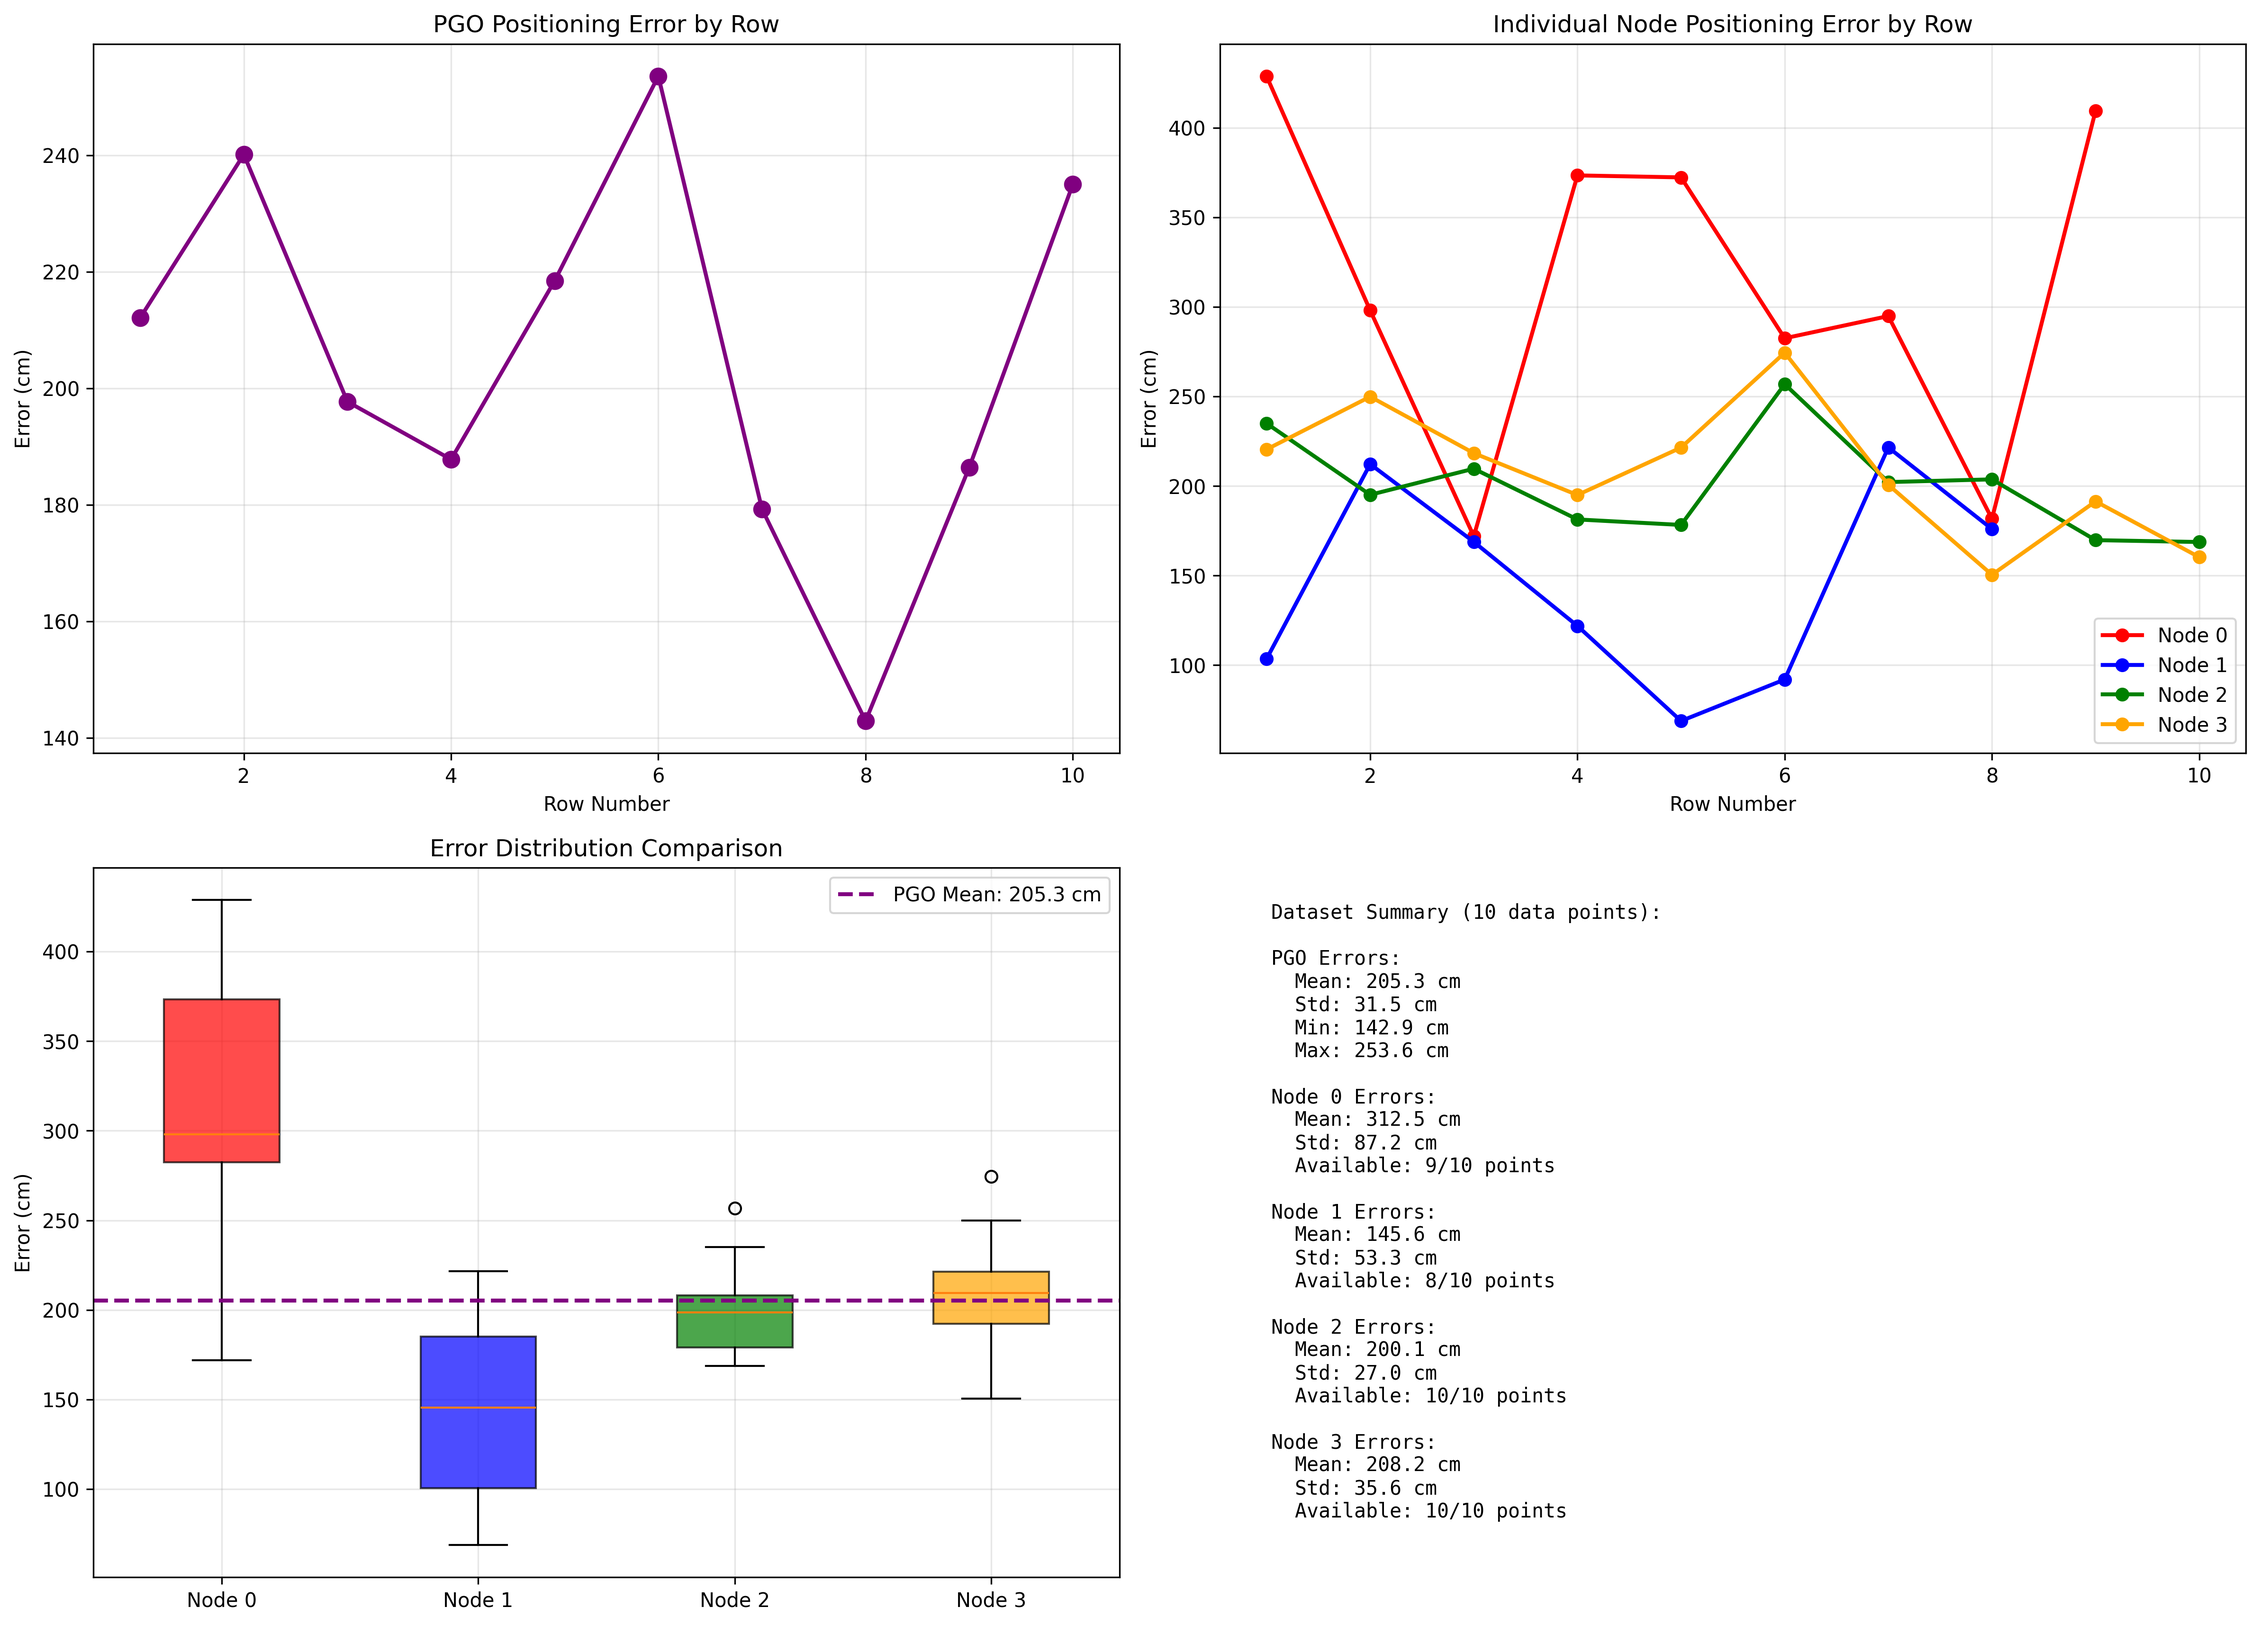
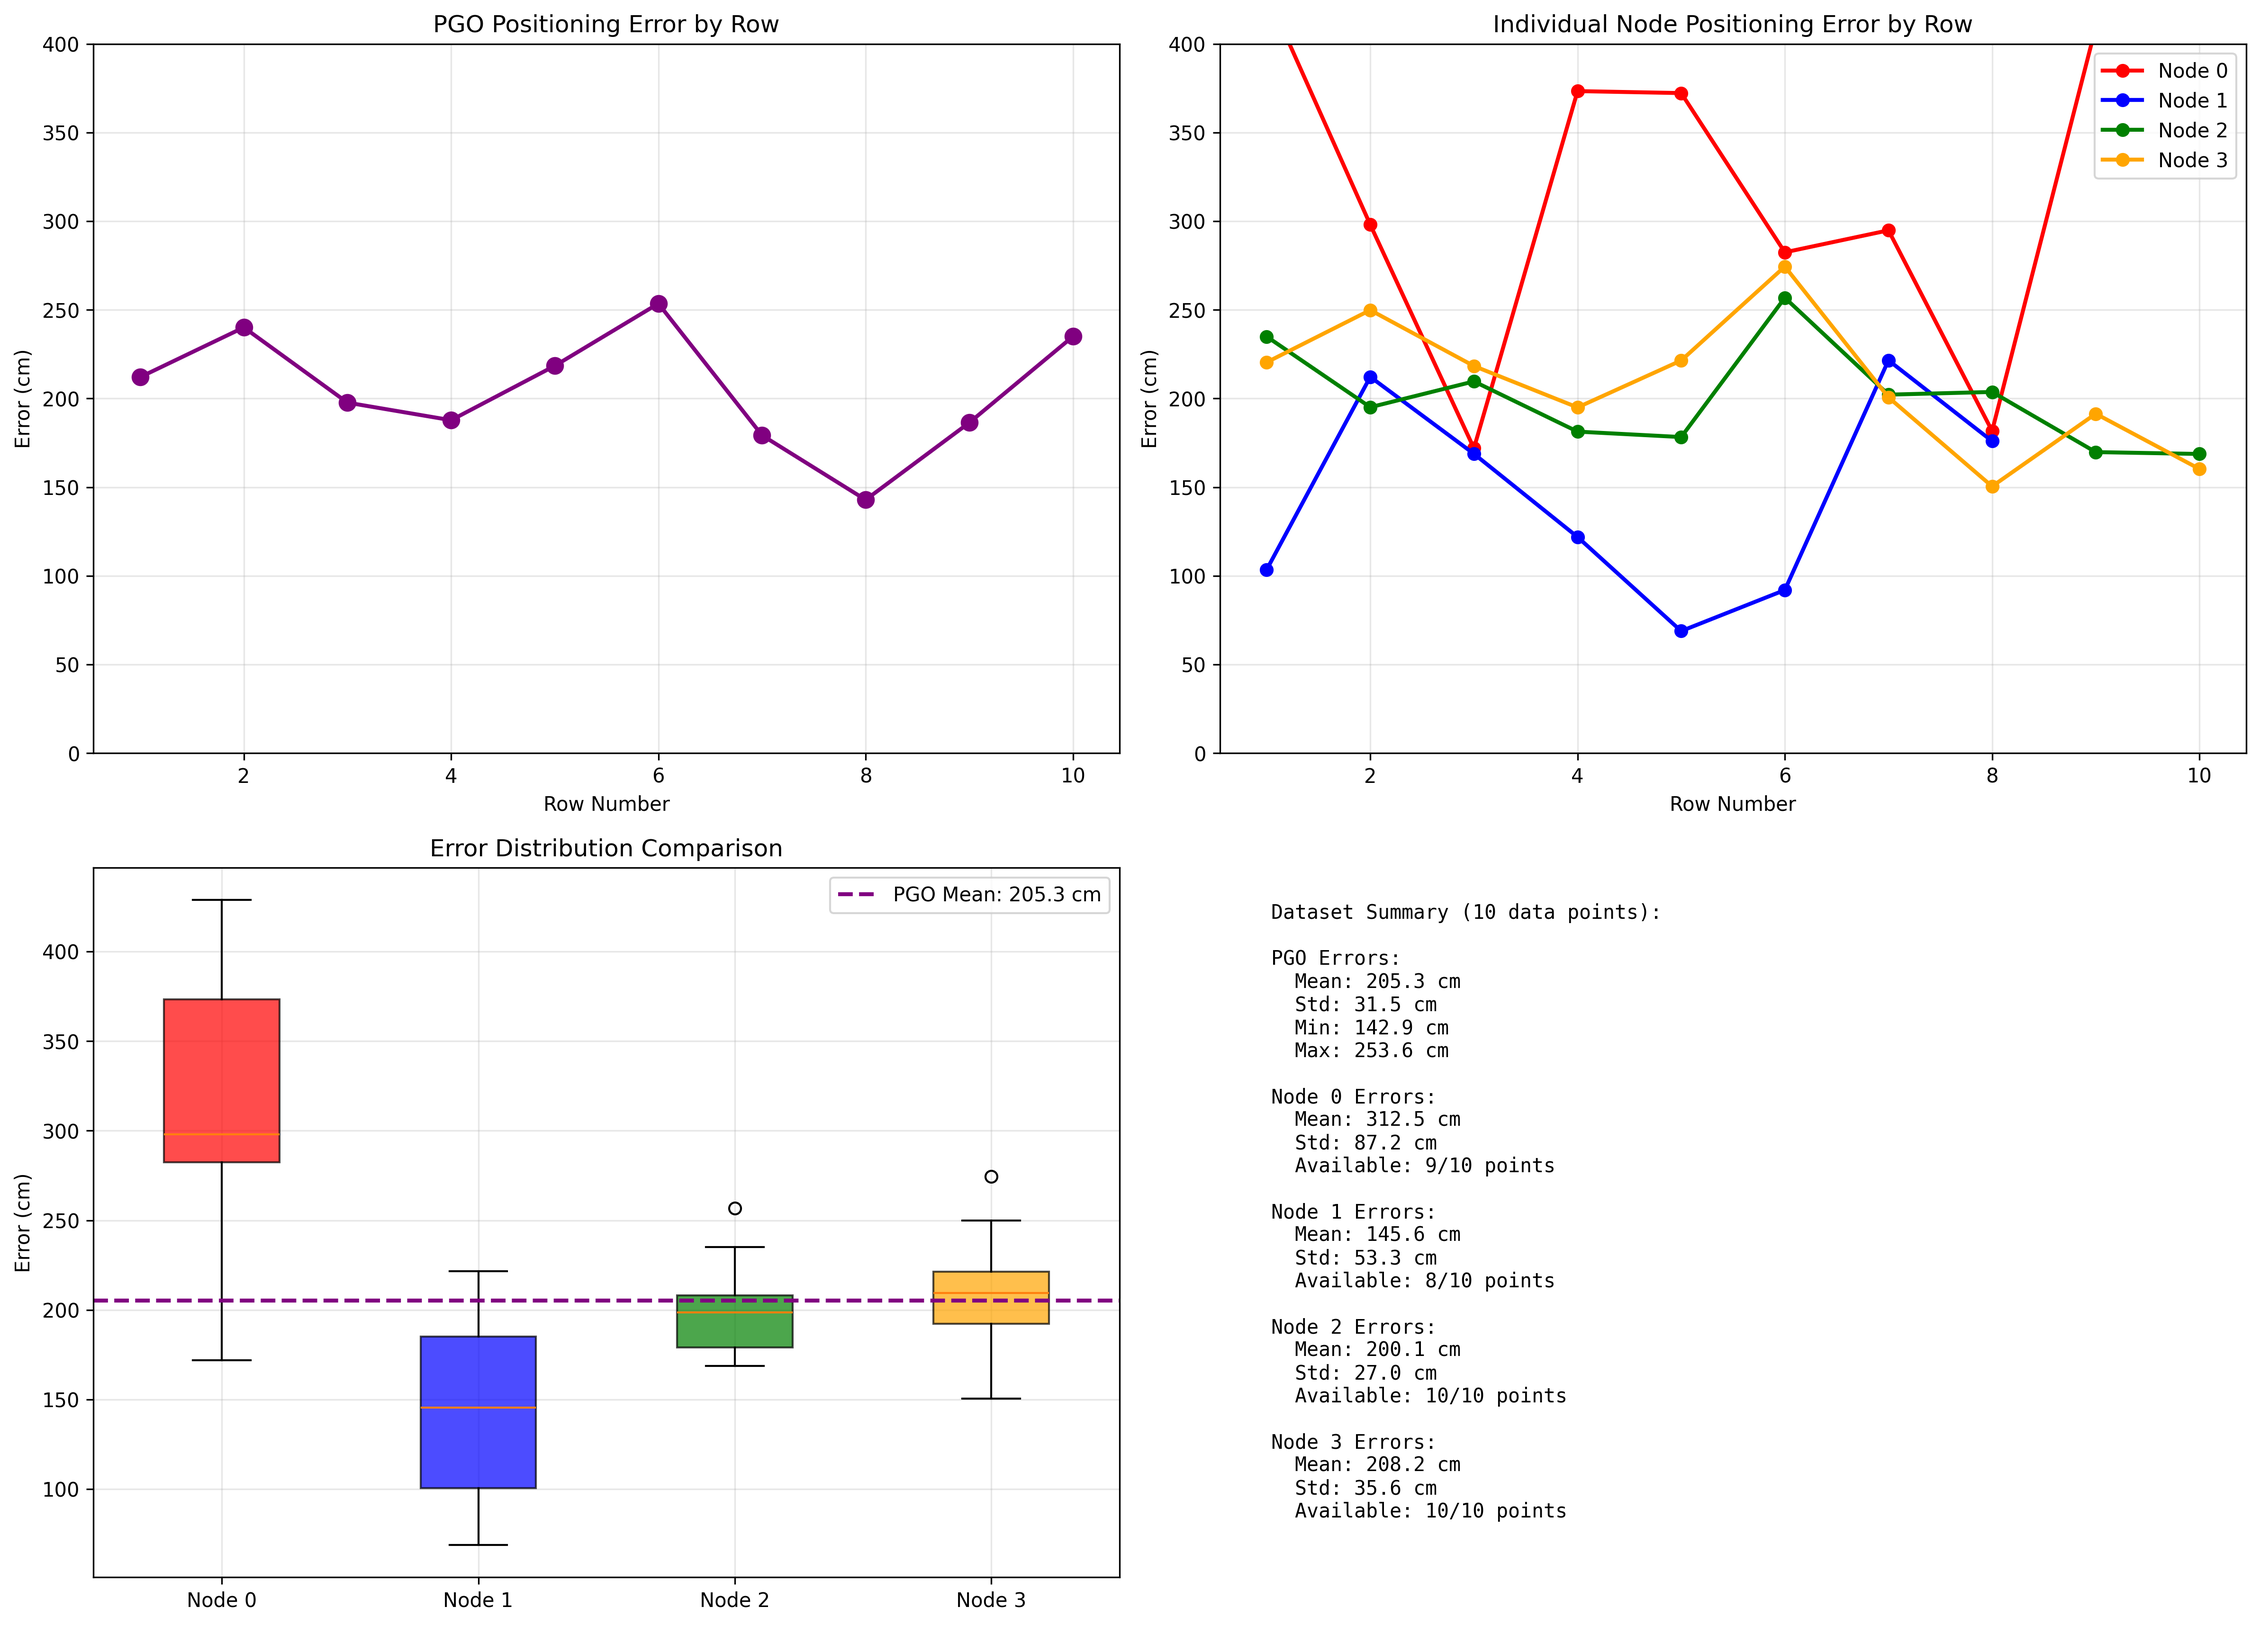
scale PGO positioning error by row

diff --git a/Data_collection/Data/data_processing_scripts/plot_all_datapoints_overview.py b/Data_collection/Data/data_processing_scripts/plot_all_datapoints_overview.py
@@ -9,7 +9,7 @@ from typing import Dict, List
 
 # Import the transformation functions from the localization package
 import sys
-sys.path.append(str(Path(__file__).parent.parent / 'packages'))
+sys.path.append(str(Path(__file__).parent.parent.parent.parent / 'packages'))
 from localization_algos.edge_creation.transforms import ANCHOR_R
 
 def plot_all_datapoints_overview(csv_path):
@@ -102,7 +102,7 @@ def plot_all_datapoints_overview(csv_path):
     ax.axis('equal')
 
     # Save the plot
-    output_path = Path(__file__).parent / 'Data' / 'all_datapoints_overview.png'
+    output_path = Path(__file__).parent.parent / 'all_datapoints_overview.png'
     plt.savefig(output_path, dpi=300, bbox_inches='tight')
     print(f"All datapoints overview plot saved to: {output_path}")
 
@@ -171,6 +171,7 @@ def create_error_summary_plot(csv_path):
     axes[0].set_xlabel('Row Number')
     axes[0].set_ylabel('Error (cm)')
     axes[0].set_title('PGO Positioning Error by Row')
+    axes[0].set_ylim(0, 400)
     axes[0].grid(True, alpha=0.3)
 
     # Plot 2: Individual node errors
@@ -185,6 +186,7 @@ def create_error_summary_plot(csv_path):
     axes[1].set_xlabel('Row Number')
     axes[1].set_ylabel('Error (cm)')
     axes[1].set_title('Individual Node Positioning Error by Row')
+    axes[1].set_ylim(0, 400)
     axes[1].legend()
     axes[1].grid(True, alpha=0.3)
 
@@ -238,7 +240,7 @@ def create_error_summary_plot(csv_path):
     plt.tight_layout()
 
     # Save the error summary plot
-    output_path = Path(__file__).parent / 'Data' / 'all_datapoints_error_summary.png'
+    output_path = Path(__file__).parent.parent / 'all_datapoints_error_summary.png'
     plt.savefig(output_path, dpi=300, bbox_inches='tight')
     print(f"Error summary plot saved to: {output_path}")
 
@@ -246,7 +248,7 @@ def create_error_summary_plot(csv_path):
 
 if __name__ == "__main__":
     # Path to the data file
-    data_path = Path(__file__).parent / "Data" / "datapoints(unsure).csv"
+    data_path = Path(__file__).parent.parent / "datapoints(unsure).csv"
 
     print(f"Creating comprehensive overview from: {data_path}")
 
